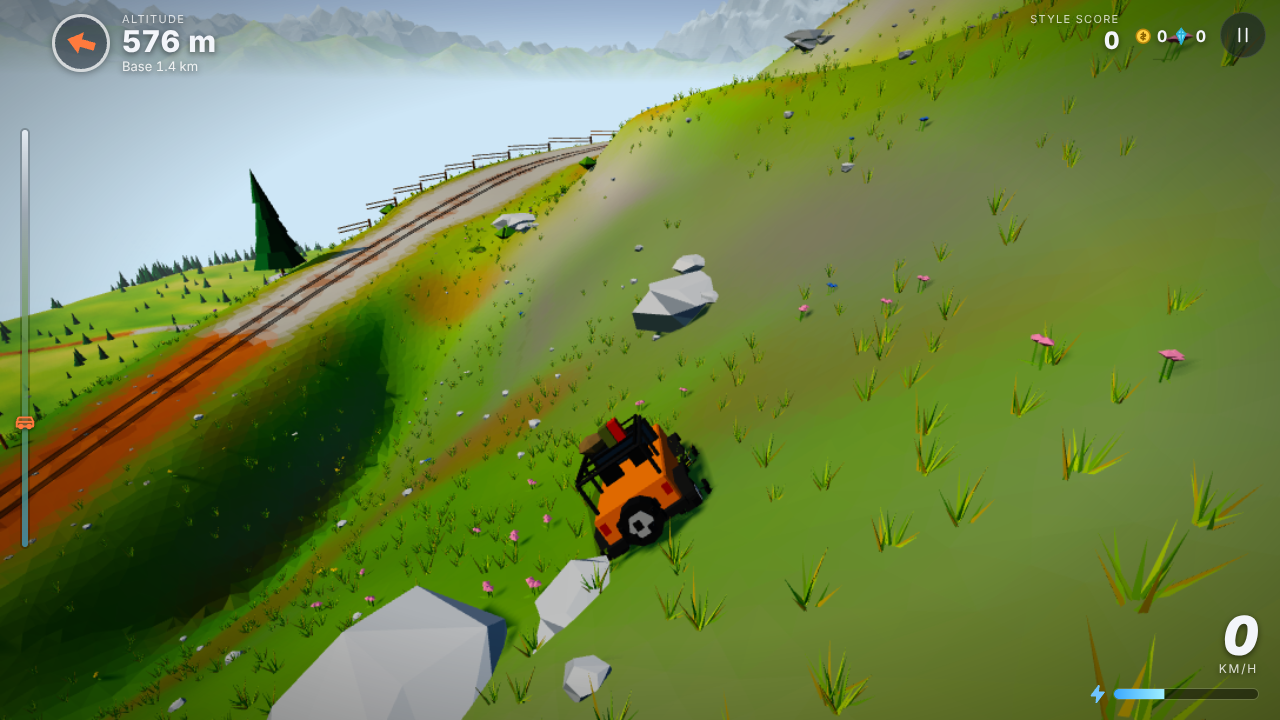
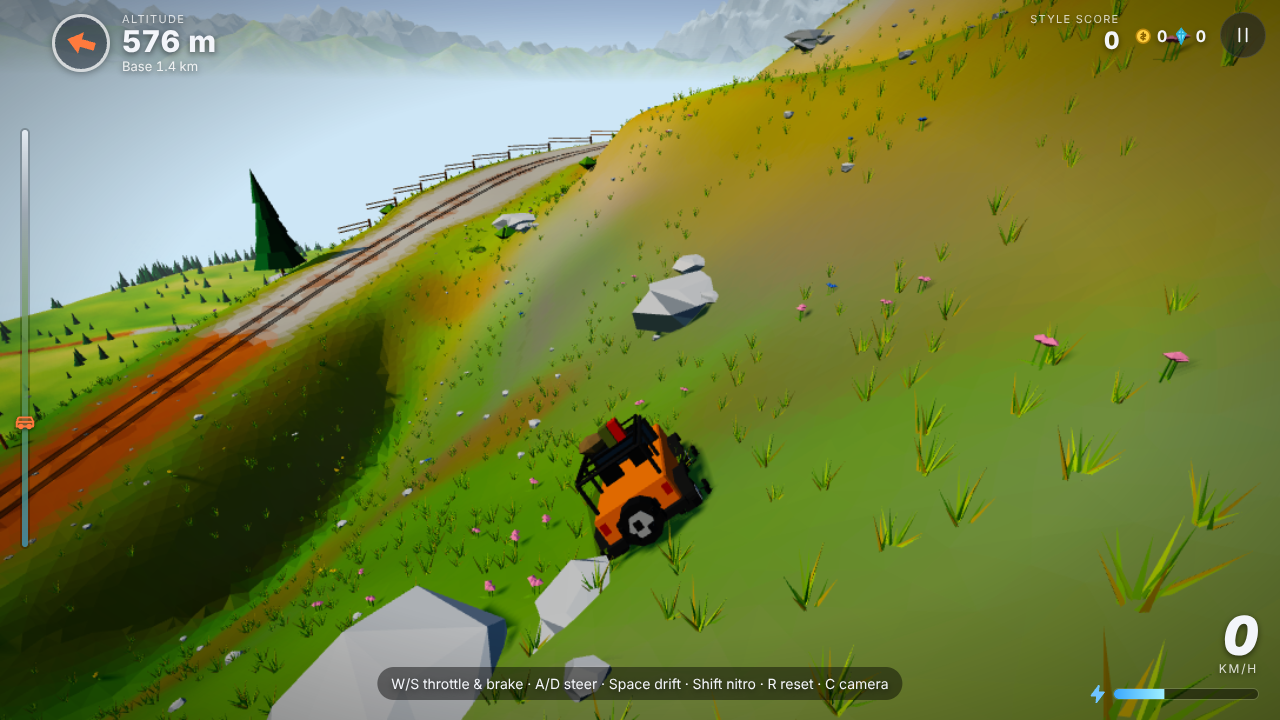
fix(terrain): light disturbed ground on trail cuts and fills; final after screenshots
Steep banks within ~12 m of a trail band take dry grass and soil instead
of dark grass and forest floor, so fills turned away from the sun no longer
form a dark band. Richness screenshots: SPOTS filter; complete after set.

Claude-Session: https://claude.ai/code/session_01Wu5oCcC2TyRys3otuAViEq

diff --git a/src/terrain/biome.ts b/src/terrain/biome.ts
@@ -269,6 +269,16 @@ export class BiomeModel {
       out[Mat.Grass] = Math.max(0.08 * veg, veg - taken - out[Mat.Earth]);
     }
 
+    // Trail cuts and fills (steep banks within ~12 m of the band): freshly worked ground,
+    // light dry grass and soil, so banks turned away from the sun never go dark.
+    const bank = smoothstep(0.5, 0.85, slope) * (1 - smoothstep(6, 14, p.roadEdge));
+    if (bank > 0 && snowAll < 0.5) {
+      out[Mat.DryGrass] += bank * 1.1;
+      out[Mat.Earth] += bank * 0.35;
+      out[Mat.Grass] *= 1 - bank * 0.6;
+      out[Mat.Forest] *= 1 - bank;
+      out[Mat.Undergrowth] *= 1 - bank;
+    }
     // Trampled fringe along the trails, and fresh cuts of the embankments.
     if (p.roadEdge < 3) {
       const fringe = 1 - smoothstep(0, 2.2, p.roadEdge);

diff --git a/CHANGELOG.md b/CHANGELOG.md
@@ -42,7 +42,8 @@ Richness update: no bland zones. Diagnosis in `docs/bland-zones-diagnosis.md`, s
 ### Fixed
 
 - Dark blurry blotches: forest-floor colour in glades without trees, rock colour on trail cuts
-  and fills, near-black embankments facing away from the sun.
+  and fills (now light disturbed ground: dry grass and soil), near-black embankments facing
+  away from the sun.
 
 ## [2.3.0] - 2026-11-14
 
